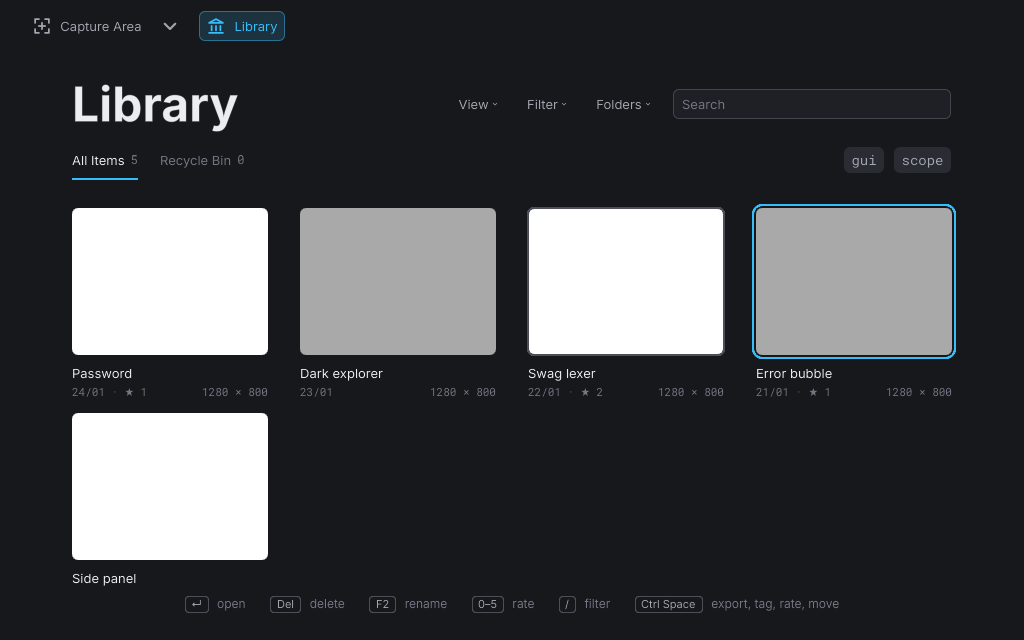
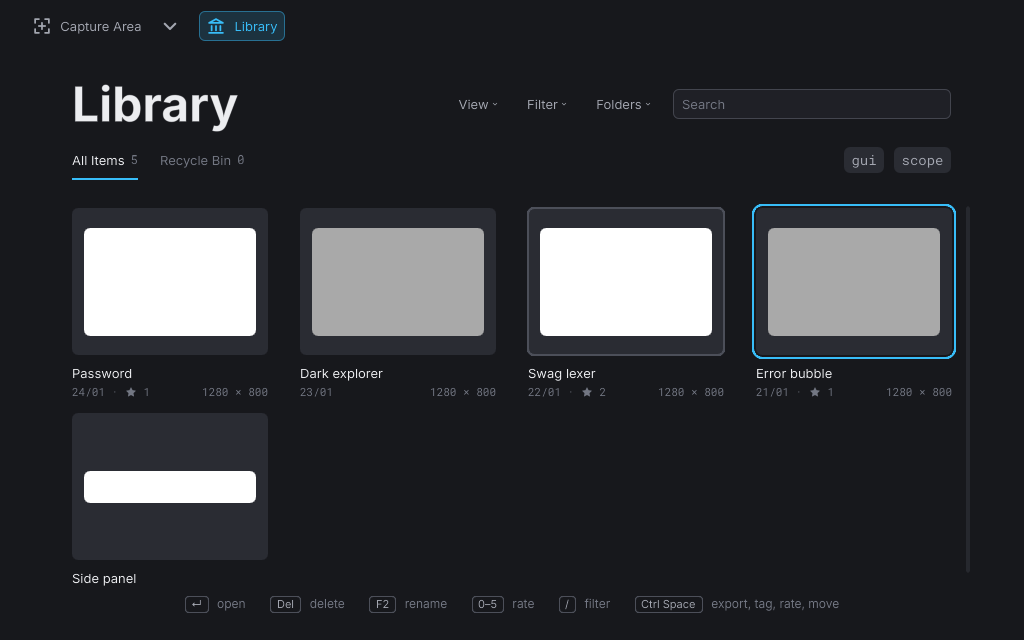
Show whole captures in library and recent thumbnails

diff --git a/backlog/design/silence/README.md b/backlog/design/silence/README.md
@@ -875,8 +875,9 @@ the screen to its work.
 
 - The strip of recent captures, shown on demand at the foot of the editor, offers its three
   sizes in words above the pictures, and its key, `Ctrl Shift H`, in the View menu. Each capture
-  is a file tile without a caption, as in the library: the picture fills its cell, the pointer
-  draws a hairline round it, and the capture being edited is ringed in Arc outside its picture.
+  is a file tile without a caption. Like the library, it fits the whole picture inside the cell
+  at its original aspect ratio. The pointer draws a hairline around the cell, and Arc rings the
+  capture being edited.
   A capture linked to an image file carries a link chip inside its picture's corner, soft while
   the image matches and in the caution tone once the capture changed since.
 
